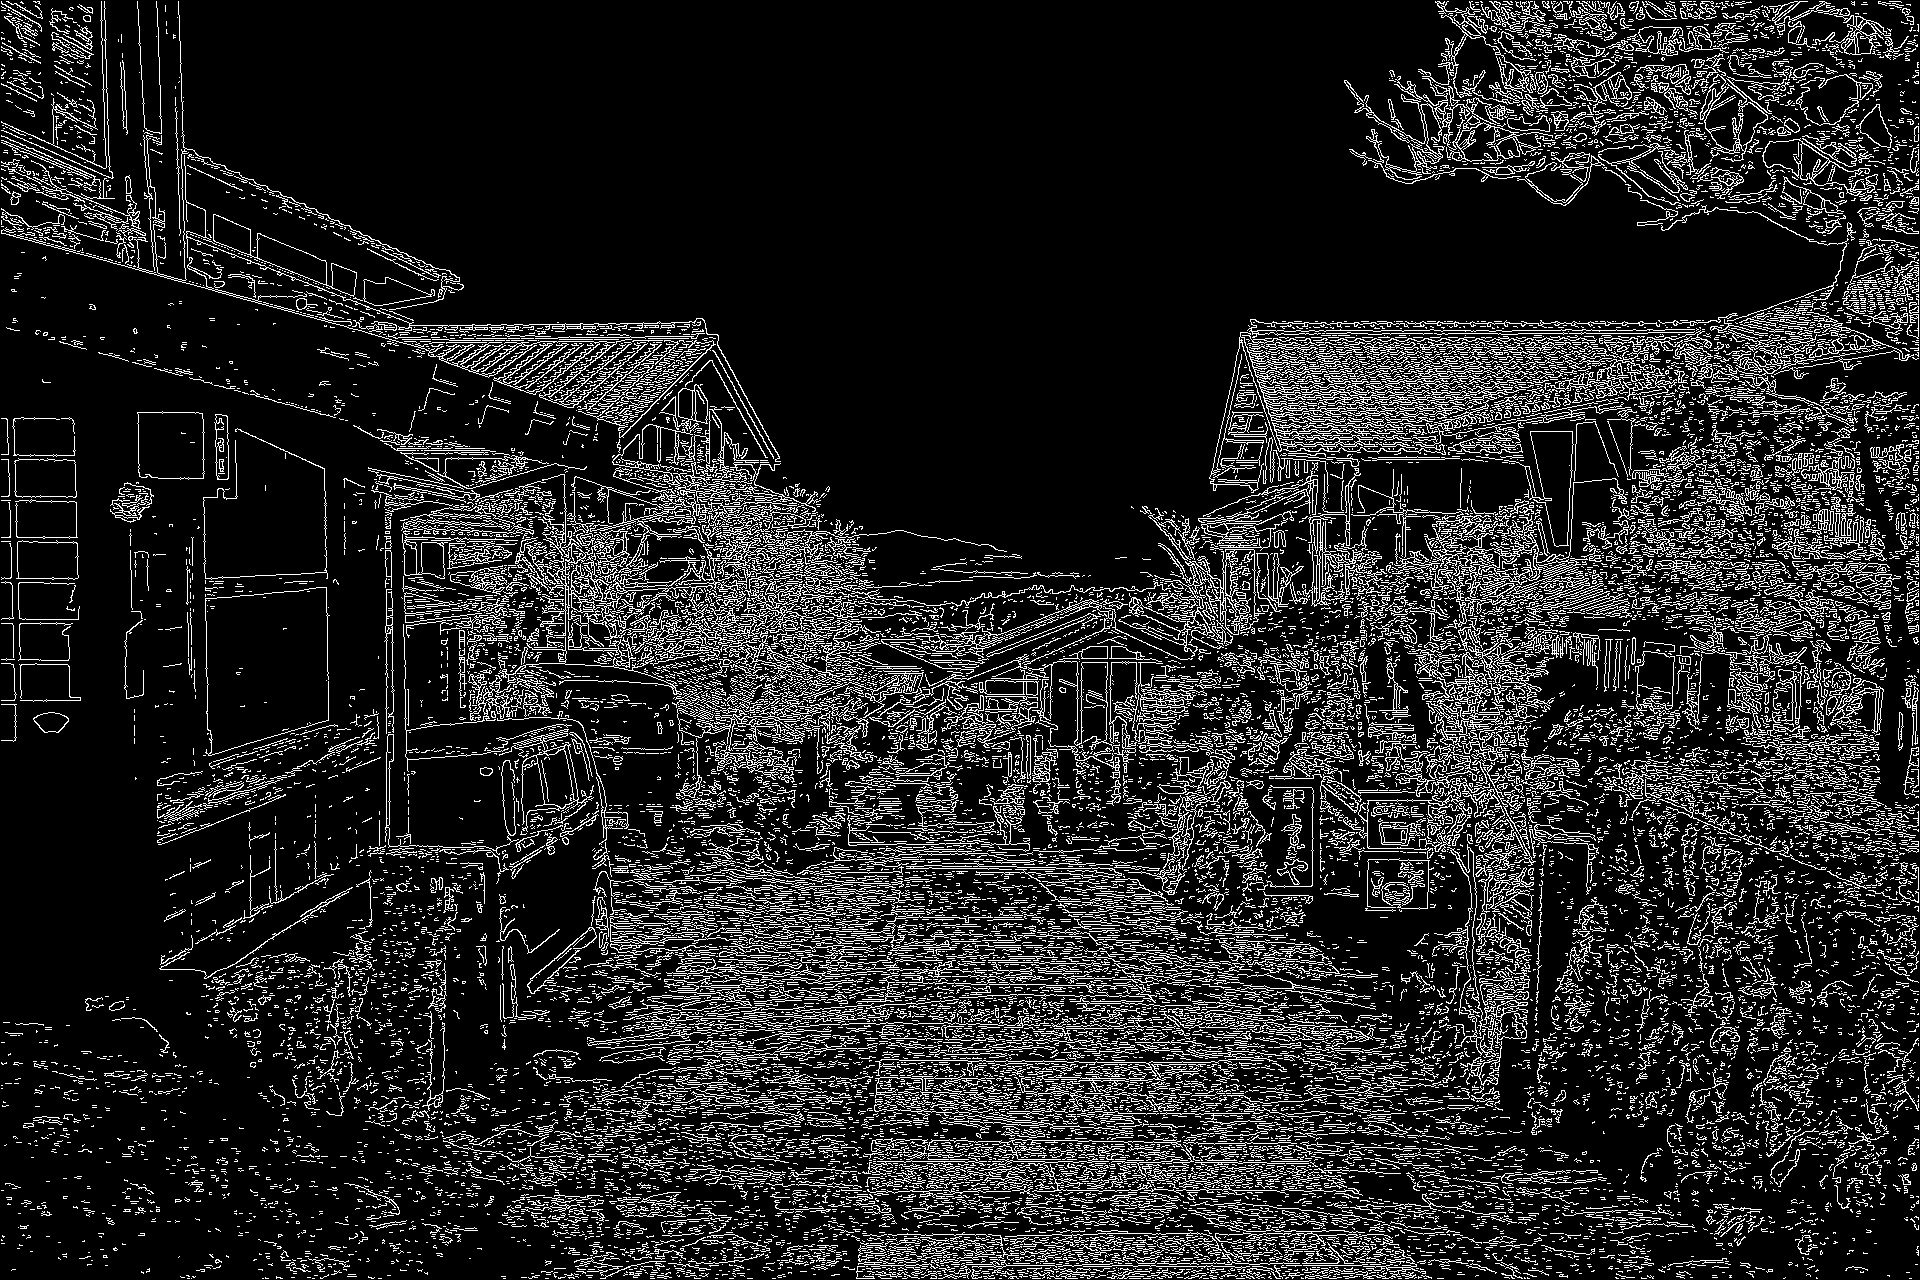
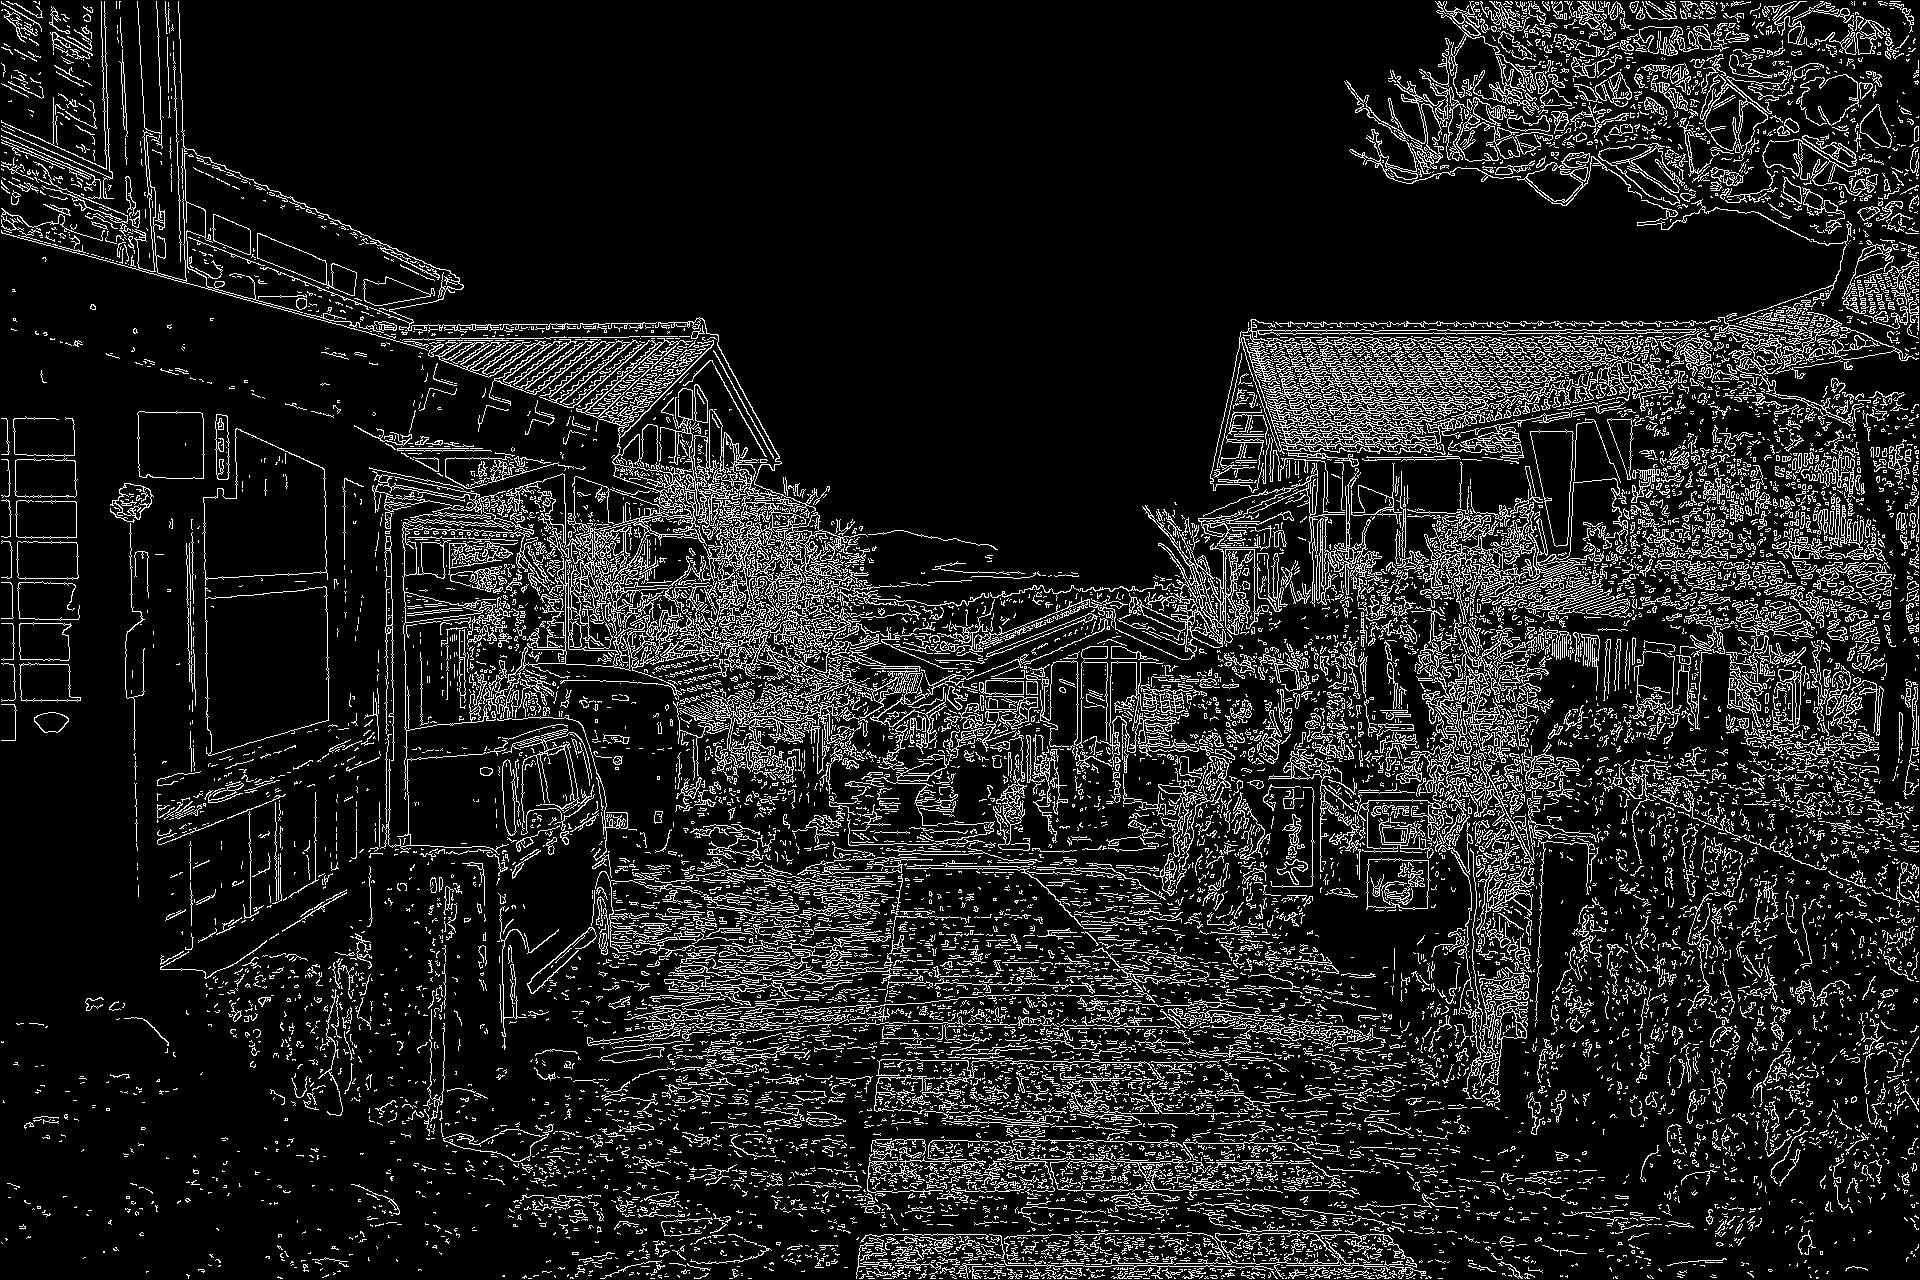
Unroll

diff --git a/Canny_x86/SIMD.cpp b/Canny_x86/SIMD.cpp
@@ -2,6 +2,7 @@
 #include <thread>
 #include <vector>
 #include <xmmintrin.h>
+#include <bits/stdc++.h>
 #include "GaussDef.h"
 #include "SIMD.h"
 
@@ -122,7 +123,7 @@ void SSE::PerformGaussianBlur(uint8_t* Output, const uint8_t* OriImg, int Width,
                         }
                     }
 
-                    __m128 InvKernelSum    = _mm_div_ps(_mm_set1_ps(1.0f), KernelSum);
+                    __m128 InvKernelSum       = _mm_div_ps(_mm_set1_ps(1.0f), KernelSum);
                     Output[y * Width + x]     = _mm_cvtss_f32(_mm_mul_ps(PixelVal0, InvKernelSum));
                     Output[y * Width + x + 1] = _mm_cvtss_f32(_mm_mul_ps(PixelVal1, InvKernelSum));
                     Output[y * Width + x + 2] = _mm_cvtss_f32(_mm_mul_ps(PixelVal2, InvKernelSum));
@@ -145,7 +146,7 @@ void SSE::PerformGaussianBlur(uint8_t* Output, const uint8_t* OriImg, int Width,
                             KernelSum        = _mm_add_ps(KernelSum, KernelVal);
                         }
                     }
-                    PixelVal           = _mm_div_ps(PixelVal, KernelSum);
+                    PixelVal              = _mm_div_ps(PixelVal, KernelSum);
                     Output[y * Width + x] = _mm_cvtss_f32(_mm_shuffle_ps(PixelVal, PixelVal, _MM_SHUFFLE(0, 0, 0, 0)));
                 }
             }
@@ -179,19 +180,25 @@ void AVX::A256::PerformGaussianBlur(uint8_t* Output, const uint8_t* OriImg, int 
                         int nx = x + i;
                         if (nx >= 0 && nx < Width)
                         {
-                            __m256 ImgPixel = _mm256_set1_ps(static_cast<float>(OriImg[y * Width + nx]));
-                            __m256 Kernel   = _mm256_set1_ps(GaussianKernel_1D[KernelRadius + i]);
-                            PixelVal        = _mm256_add_ps(PixelVal, _mm256_mul_ps(ImgPixel, Kernel));
-                            KernelSum       = _mm256_add_ps(KernelSum, Kernel);
+                            int    ImgIdx    = y * Width + nx;
+                            __m256 ImgPixel  = _mm256_set_ps(static_cast<float>(OriImg[ImgIdx + 7]),
+                                static_cast<float>(OriImg[ImgIdx + 6]),
+                                static_cast<float>(OriImg[ImgIdx + 5]),
+                                static_cast<float>(OriImg[ImgIdx + 4]),
+                                static_cast<float>(OriImg[ImgIdx + 3]),
+                                static_cast<float>(OriImg[ImgIdx + 2]),
+                                static_cast<float>(OriImg[ImgIdx + 1]),
+                                static_cast<float>(OriImg[ImgIdx]));
+                            __m256 KernelVal = _mm256_set1_ps(GaussianKernel_1D[KernelRadius + i]);
+                            PixelVal         = _mm256_add_ps(PixelVal, _mm256_mul_ps(ImgPixel, KernelVal));
+                            KernelSum        = _mm256_add_ps(KernelSum, KernelVal);
                         }
                     }
 
-                    PixelVal          = _mm256_div_ps(PixelVal, KernelSum);
-                    __m256i Pixels_u8 = _mm256_cvtps_epi32(
-                        _mm256_min_ps(_mm256_max_ps(PixelVal, _mm256_setzero_ps()), _mm256_set1_ps(255.0f)));
-                    _mm_storeu_si128((__m128i*)&Output[y * Width + x], _mm256_extractf128_si256(Pixels_u8, 0));
-                    _mm_storeu_si128((__m128i*)&Output[y * Width + x + 4], _mm256_extractf128_si256(Pixels_u8, 1));
+                    __m256 InvKernelSum = _mm256_div_ps(_mm256_set1_ps(1.0f), KernelSum);
+                    _mm256_storeu_ps(&Tmp[y * Width + x], _mm256_mul_ps(PixelVal, InvKernelSum));
                 }
+
                 for (; x < Width; x++)
                 {
                     float PixelVal  = 0.0f;
@@ -201,14 +208,14 @@ void AVX::A256::PerformGaussianBlur(uint8_t* Output, const uint8_t* OriImg, int 
                         int nx = x + i;
                         if (nx >= 0 && nx < Width)
                         {
-                            float ImgPixel = static_cast<float>(OriImg[y * Width + nx]);
-                            float Kernel   = GaussianKernel_1D[KernelRadius + i];
-                            PixelVal += ImgPixel * Kernel;
-                            KernelSum += Kernel;
+                            int   ImgIdx    = y * Width + nx;
+                            float ImgPixel  = static_cast<float>(OriImg[ImgIdx]);
+                            float KernelVal = GaussianKernel_1D[KernelRadius + i];
+                            PixelVal += ImgPixel * KernelVal;
+                            KernelSum += KernelVal;
                         }
                     }
-                    Output[y * Width + x] =
-                        static_cast<uint8_t>(std::min(std::max(int(PixelVal / KernelSum + 0.5f), 0), 255));
+                    Tmp[y * Width + x] = PixelVal / KernelSum;
                 }
             }
         });
@@ -218,34 +225,35 @@ void AVX::A256::PerformGaussianBlur(uint8_t* Output, const uint8_t* OriImg, int 
     for (int t = 0; t < ThreadsNum; ++t)
     {
         Threads[t] = std::thread([&, t]() {
-            int ColPerThread = Width / ThreadsNum;
-            int Start        = t * ColPerThread;
-            int End          = (t == ThreadsNum - 1) ? Width : Start + ColPerThread;
-            for (int x = Start; x < End; x++)
+            int RowPerThread = Height / ThreadsNum;
+            int Start        = t * RowPerThread;
+            int End          = (t == ThreadsNum - 1) ? Height : Start + RowPerThread;
+            for (int y = Start; y < End; y++)
             {
-                int y = 0;
-                for (; y <= Height - 8; y += 8)
+                int x = 0;
+                for (; x <= Width - 8; x += 8)
                 {
                     __m256 PixelVal  = _mm256_setzero_ps();
                     __m256 KernelSum = _mm256_setzero_ps();
+
                     for (int i = -KernelRadius; i <= KernelRadius; i++)
                     {
                         int ny = y + i;
                         if (ny >= 0 && ny < Height)
                         {
-                            __m256 ImgPixel = _mm256_set1_ps(Tmp[ny * Width + x]);
-                            __m256 Kernel   = _mm256_set1_ps(GaussianKernel_1D[KernelRadius + i]);
-                            PixelVal        = _mm256_add_ps(PixelVal, _mm256_mul_ps(ImgPixel, Kernel));
-                            KernelSum       = _mm256_add_ps(KernelSum, Kernel);
+                            int    ImgIdx    = ny * Width + x;
+                            __m256 ImgPixel  = _mm256_loadu_ps(&Tmp[ImgIdx]);
+                            __m256 KernelVal = _mm256_set1_ps(GaussianKernel_1D[KernelRadius + i]);
+                            PixelVal         = _mm256_add_ps(PixelVal, _mm256_mul_ps(ImgPixel, KernelVal));
+                            KernelSum        = _mm256_add_ps(KernelSum, KernelVal);
                         }
                     }
-                    PixelVal          = _mm256_div_ps(PixelVal, KernelSum);
-                    __m256i Pixels_u8 = _mm256_cvtps_epi32(
-                        _mm256_min_ps(_mm256_max_ps(PixelVal, _mm256_setzero_ps()), _mm256_set1_ps(255.0f)));
-                    _mm_storeu_si128((__m128i*)&Output[y * Width + x], _mm256_extractf128_si256(Pixels_u8, 0));
-                    _mm_storeu_si128((__m128i*)&Output[y * Width + x + 4], _mm256_extractf128_si256(Pixels_u8, 1));
+
+                    __m256 InvKernelSum = _mm256_div_ps(_mm256_set1_ps(1.0f), KernelSum);
+                    _mm256_storeu_ps(&Tmp[y * Width + x], _mm256_mul_ps(PixelVal, InvKernelSum));
                 }
-                for (; y < Height; y++)
+
+                for (; x < Width; x++)
                 {
                     float PixelVal  = 0.0f;
                     float KernelSum = 0.0f;
@@ -254,17 +262,19 @@ void AVX::A256::PerformGaussianBlur(uint8_t* Output, const uint8_t* OriImg, int 
                         int ny = y + i;
                         if (ny >= 0 && ny < Height)
                         {
-                            float ImgPixel = Tmp[ny * Width + x];
-                            float Kernel   = GaussianKernel_1D[KernelRadius + i];
-                            PixelVal += ImgPixel * Kernel;
-                            KernelSum += Kernel;
+                            int   ImgIdx    = ny * Width + x;
+                            float ImgPixel  = Tmp[ImgIdx];
+                            float KernelVal = GaussianKernel_1D[KernelRadius + i];
+                            PixelVal += ImgPixel * KernelVal;
+                            KernelSum += KernelVal;
                         }
                     }
-                    Output[y * Width + x] =
-                        static_cast<uint8_t>(std::min(std::max(int(PixelVal / KernelSum + 0.5f), 0), 255));
+                    Tmp[y * Width + x] = PixelVal / KernelSum;
                 }
             }
         });
     }
     for (auto& Th : Threads) Th.join();
+
+    for (int i = 0; i < Width * Height; i++) Output[i] = static_cast<uint8_t>(Tmp[i]);
 }

diff --git a/Canny_x86/main.cpp b/Canny_x86/main.cpp
@@ -22,7 +22,7 @@ int main()
     const int LowThre      = 30;
     const int HighThre     = 90;
 
-    std::function<void(uint8_t*, const uint8_t*, int, int)>         Gauss  = SSE::PerformGaussianBlur;
+    std::function<void(uint8_t*, const uint8_t*, int, int)>         Gauss  = AVX::A256::PerformGaussianBlur;
     std::function<void(float*, uint8_t*, const uint8_t*, int, int)> Grad   = Serial::ComputeGradients;
     std::function<void(float*, float*, uint8_t*, int, int)>         ReduNM = Serial::ReduceNonMaximum;
     std::function<void(uint8_t*, float*, int, int, int, int)>       DbThre = Serial::PerformDoubleThresholding;
